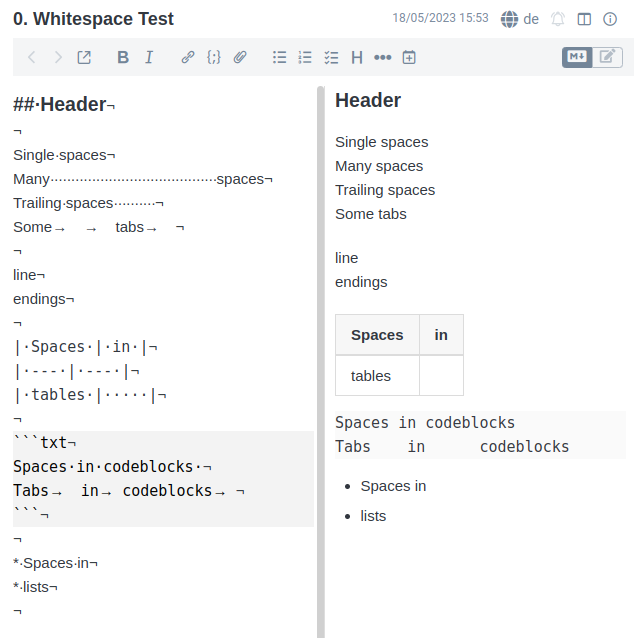
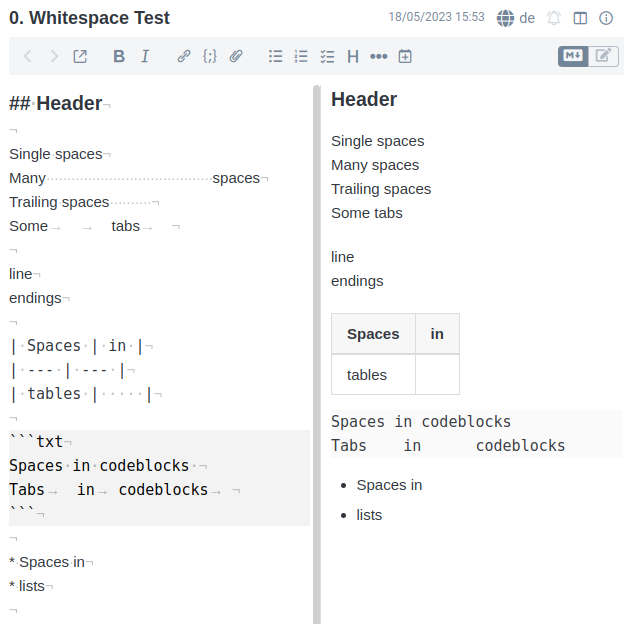
use opacity to get more decent whitespaces
Update the corresponding screenshot, too.

diff --git a/src/whitespacer.css b/src/whitespacer.css
@@ -1,11 +1,14 @@
 .CodeMirror .cm-tab::before {
   content: "→";
+  opacity: 0.3;
 }
 .CodeMirror-line > span::after {
   content: "¬";
+  opacity: 0.3;
 }
 .CodeMirror .cm-whitespace-a::before,
 .CodeMirror .cm-whitespace-b::before {
   content: "·";
   position: absolute;
+  opacity: 0.3;
 }

diff --git a/src/whitespacer.ts b/src/whitespacer.ts
@@ -26,7 +26,7 @@ module.exports = {
       codeMirrorResources: [],
       codeMirrorOptions: { showWhitespaces: true },
       assets: function () {
-        return [{ name: "whitespace.css" }];
+        return [{ name: "whitespacer.css" }];
       },
     };
   },
